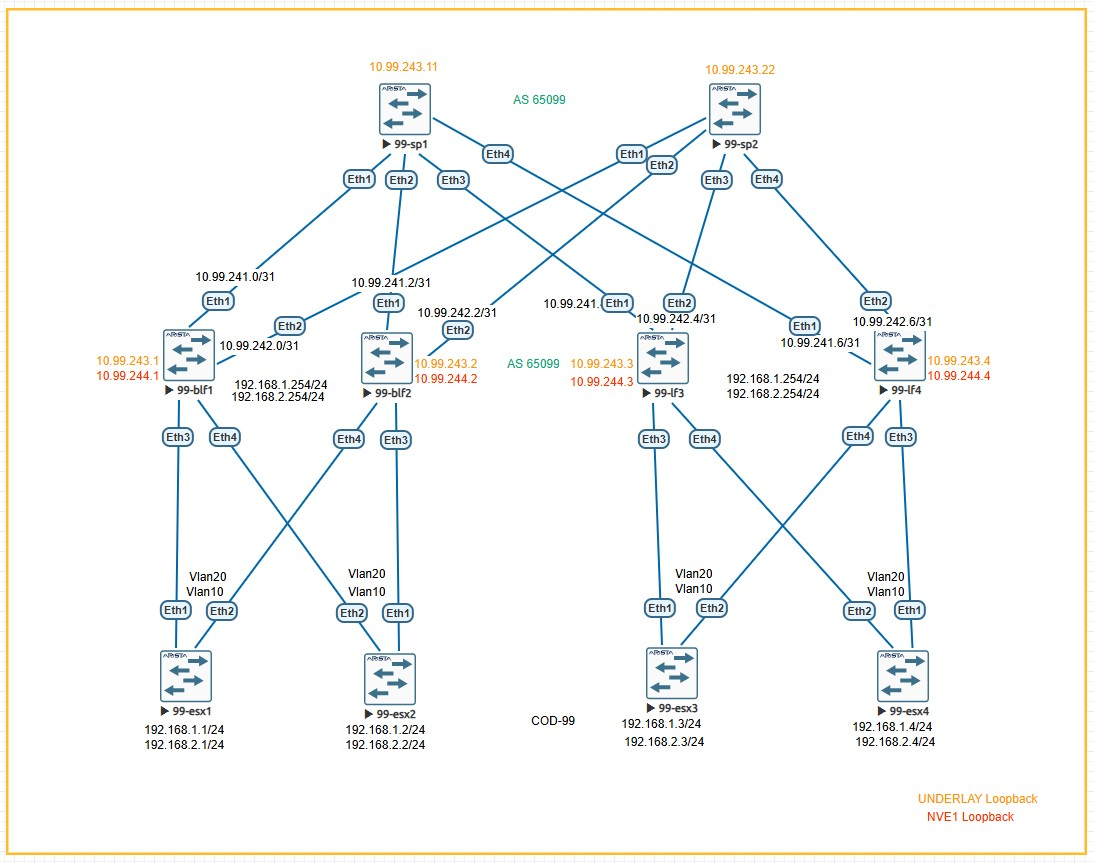
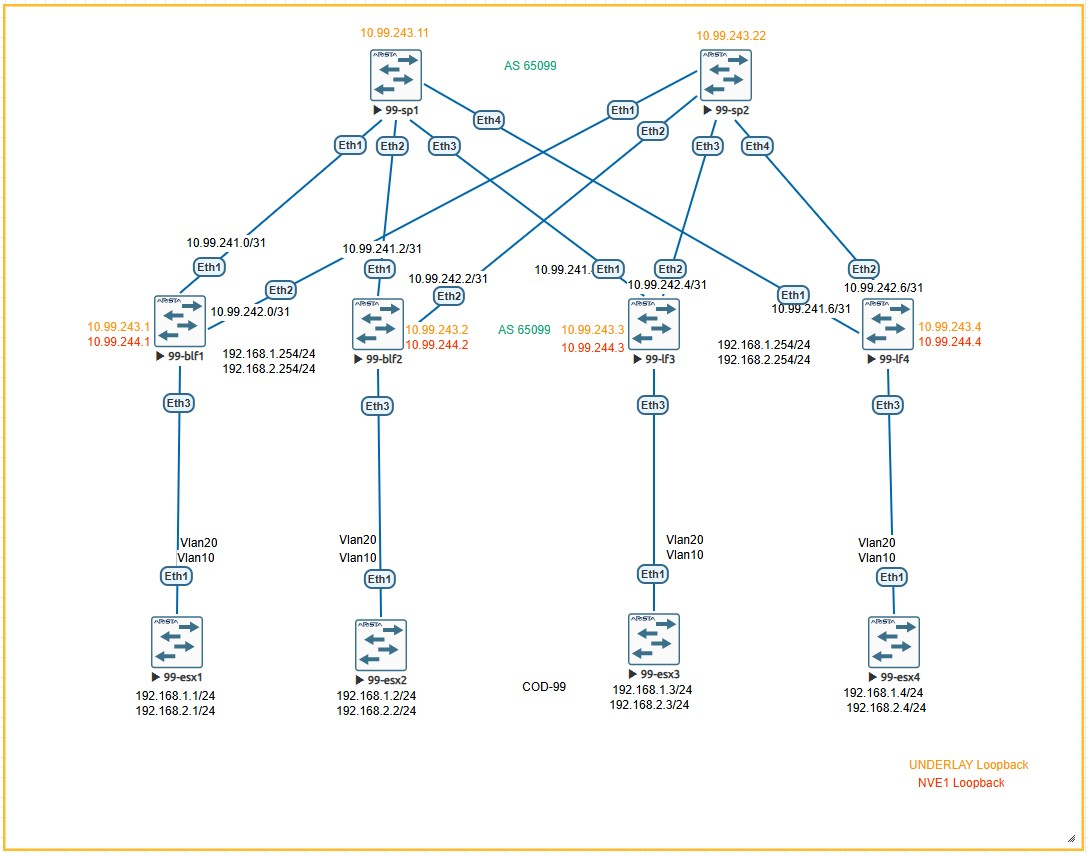
1

diff --git a/labs/lab_05(VxLAN. L2 VNI)/README.md b/labs/lab_05(VxLAN. L2 VNI)/README.md
@@ -113,13 +113,6 @@ interface Ethernet3
    spanning-tree bpduguard enable
    no shutdown
 
-interface Ethernet4
-   description to-99-esx2-Eth2
-   switchport mode trunk
-   switchport trunk allowed vlan 10,20
-   mtu 9100
-   spanning-tree bpduguard enable
-   no shutdown
 
 interface Vlan10
    description Vlan10
@@ -221,13 +214,6 @@ interface Ethernet3
    spanning-tree bpduguard enable
    no shutdown
 
-interface Ethernet4
-   description to-99-esx1-Eth2
-   switchport mode trunk
-   switchport trunk allowed vlan 10,20
-   mtu 9100
-   spanning-tree bpduguard enable
-   no shutdown
 
 interface Vlan10
    description Vlan10
@@ -328,13 +314,6 @@ interface Ethernet3
    spanning-tree bpduguard enable
    no shutdown
 
-interface Ethernet4
-   description to-99-esx4-Eth2
-   switchport mode trunk
-   switchport trunk allowed vlan 10,20
-   mtu 9100
-   spanning-tree bpduguard enable
-   no shutdown
 
 interface Vlan10
    description Vlan10
@@ -434,14 +413,6 @@ interface Ethernet3
    spanning-tree bpduguard enable
    no shutdown
 
-interface Ethernet4
-   description to-99-esx3-Eth2
-   switchport mode trunk
-   switchport trunk allowed vlan 10,20
-   mtu 9100
-   spanning-tree bpduguard enable
-   no shutdown
-spanning-tree bpduguard enable
 interface Vlan10
    description Vlan10
    mtu 9100
